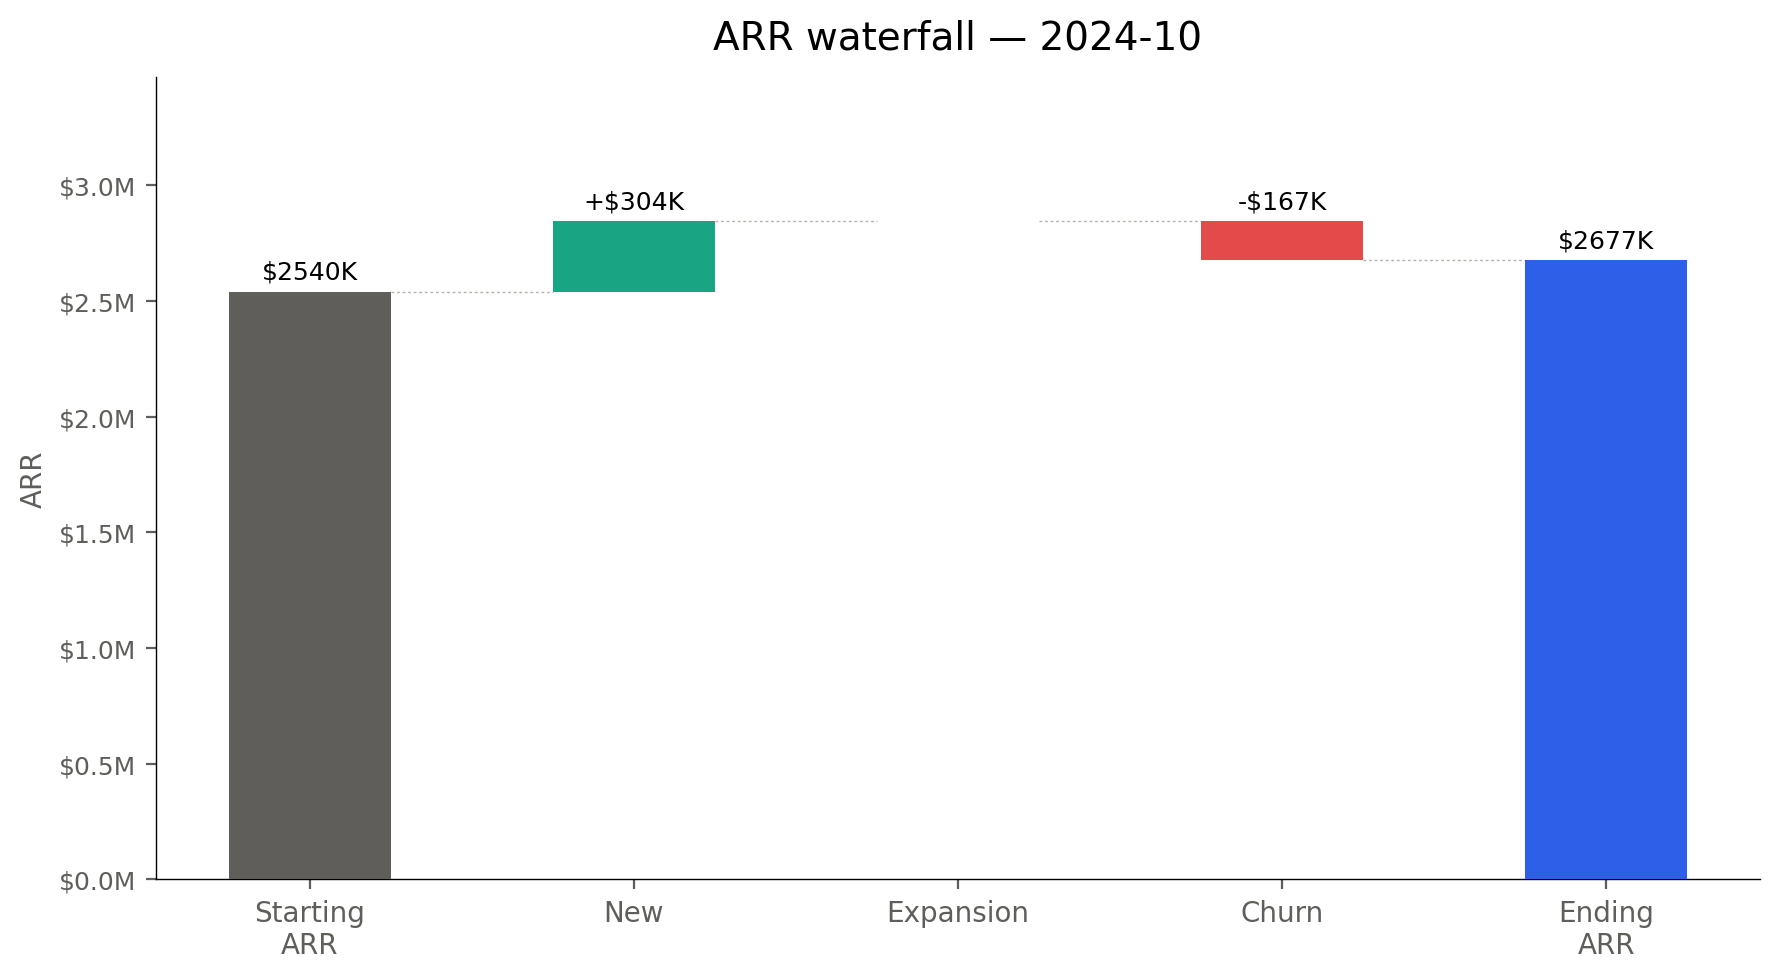
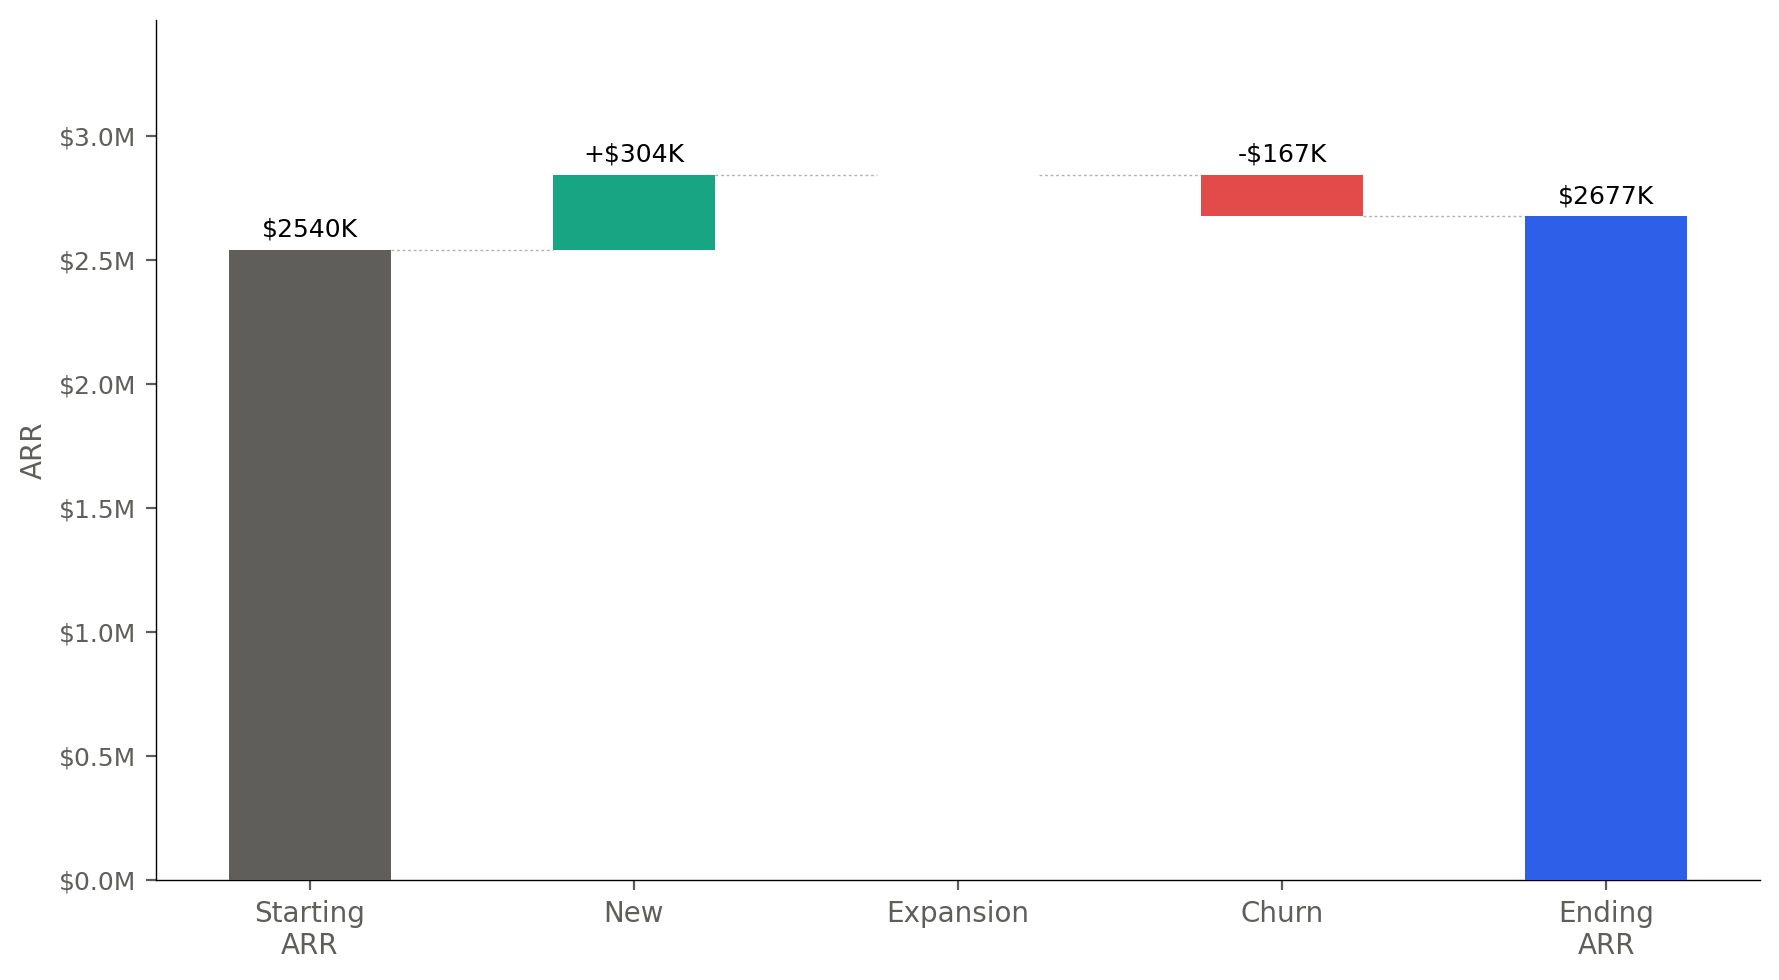
Section C cleanup: chart titles, wrapping, sentence case

diff --git a/src/report.py b/src/report.py
@@ -190,16 +190,16 @@ def _chart(path: str, max_w: float = None, max_h: float = None) -> Image:
     return img
 
 
-def _kpi_row(items: list) -> Table:
+def _kpi_row(items: list, col_widths: list = None) -> Table:
     n   = len(items)
-    w   = CONTENT_W / n
+    cw  = col_widths if col_widths else [CONTENT_W / n] * n
     tbl = Table(
         [
             [Paragraph(lbl, S_KPI_LABEL) for lbl, _, _ in items],
             [Paragraph(val, S_KPI_VALUE) for _, val, _ in items],
             [Paragraph(dlt, S_KPI_DELTA) for _, _, dlt in items],
         ],
-        colWidths=[w] * n,
+        colWidths=cw,
     )
     tbl.setStyle(TableStyle([
         ("BACKGROUND",    (0, 0), (-1, -1), C_BG),
@@ -280,12 +280,11 @@ def _section_summary(story: list, kpis: dict, arr_chart_path: str) -> None:
         Paragraph("Founder commentary", S_SUBHEAD),
         Paragraph(
             "Lorem ipsum dolor sit amet, consectetur adipiscing elit, sed do eiusmod "
-            "tempor incididunt ut labore et dolore magna aliqua. Ut enim ad minim veniam,<br/>"
-            "quis nostrud exercitation ullamco laboris nisi ut aliquip ex ea commodo consequat.<br/>"
-            "Duis aute irure dolor in reprehenderit in voluptate velit esse cillum dolore eu<br/>"
-            "fugiat nulla pariatur. Excepteur sint occaecat cupidatat non proident, sunt in<br/>"
-            "culpa qui officia deserunt mollit anim id est laborum. Sed ut perspiciatis unde<br/>"
-            "omnis iste natus error sit voluptatem accusantium doloremque laudantium totam.",
+            "tempor incididunt ut labore et dolore magna aliqua. Ut enim ad minim veniam, "
+            "quis nostrud exercitation ullamco laboris nisi ut aliquip ex ea commodo. "
+            "Duis aute irure dolor in reprehenderit in voluptate velit esse cillum dolore "
+            "eu fugiat nulla pariatur. Excepteur sint occaecat cupidatat non proident, "
+            "sunt in culpa qui officia deserunt mollit anim id est laborum.",
             S_LOREM,
         ),
     ]
@@ -382,22 +381,25 @@ def _section_icp(story: list, icp: dict) -> None:
         f"Your highest-MRR customers skew toward {icp['top_industry']} companies "
         f"in {icp['top_country']}, acquired mostly via {dominant} ({pct:.0f}%)."
     )
+    # Column widths: MRR values are short; industry/country can be long.
+    # 87 + 87 + 155 + 175 = 504 = CONTENT_W
+    icp_cw = [87, 87, 155, 175]
     story += [
         Paragraph(caption, S_CAPTION),
         _gap(12),
         _kpi_row([
             ("Avg MRR",      f"${icp['avg_mrr']:,.0f}",   ""),
             ("Median MRR",   f"${icp['median_mrr']:,.0f}", ""),
-            ("Top Industry", icp["top_industry"] or "-",   ""),
-            ("Top Country",  icp["top_country"]  or "-",   ""),
-        ]),
+            ("Top industry", icp["top_industry"] or "-",   ""),
+            ("Top country",  icp["top_country"]  or "-",   ""),
+        ], col_widths=icp_cw),
         _gap(12),
         _kpi_row([
             ("Inbound",      f"{icp['inbound_pct']:.0f}%",  ""),
             ("Outbound",     f"{icp['outbound_pct']:.0f}%", ""),
             ("Sample size",  str(icp["sample_size"]),        ""),
             ("",             "",                             ""),
-        ]),
+        ], col_widths=icp_cw),
     ]
 
 
@@ -451,37 +453,37 @@ def build_report(csv_path: str, as_of_month: str,
     story.append(PageBreak())
 
     # Page 2 — Executive Summary
-    story += _section_header(1, "Executive Summary")
+    story += _section_header(1, "Executive summary")
     _section_summary(story, kpis, arr_png)
 
     # Page 3 — Cohort Retention
     story.append(PageBreak())
-    story += _section_header(2, "Cohort Retention")
+    story += _section_header(2, "Cohort retention")
     _section_cohort(story, coh_png)
 
     # Page 4 — ARR Waterfall
     story.append(PageBreak())
-    story += _section_header(3, "ARR Waterfall")
+    story += _section_header(3, "ARR waterfall")
     _section_waterfall(story, wf, wfall_png)
 
     # Page 5 — Geography Mix
     story.append(PageBreak())
-    story += _section_header(4, "Geography Mix")
+    story += _section_header(4, "Geography mix")
     story.append(_chart(geo_png, max_h=CONTENT_H * 0.78))
 
     # Page 6 — Industry Mix
     story.append(PageBreak())
-    story += _section_header(5, "Industry Mix")
+    story += _section_header(5, "Industry mix")
     story.append(_chart(ind_png, max_h=CONTENT_H * 0.78))
 
     # Page 7 — Logo Highlights
     story.append(PageBreak())
-    story += _section_header(6, "Logo Highlights")
+    story += _section_header(6, "Logo highlights")
     _section_logos(story, logos)
 
     # Page 8 — ICP Snapshot
     story.append(PageBreak())
-    story += _section_header(7, "ICP Snapshot")
+    story += _section_header(7, "ICP snapshot")
     _section_icp(story, icp)
 
     cover_fn = lambda c, d: _draw_cover(c, month_label, prepared_str)

diff --git a/src/charts.py b/src/charts.py
@@ -152,7 +152,7 @@ def plot_arr_waterfall(wf: dict, as_of_month: str,
             zorder=2,
         )
 
-    ax.set_title(f"ARR waterfall — {as_of_month}")
+    ax.set_title("")
     ax.set_ylabel("ARR")
     ax.set_xticks(range(len(segments)))
     ax.set_xticklabels([s[0] for s in segments], fontsize=10)
@@ -226,7 +226,7 @@ def _stacked_bar(df: pd.DataFrame, title: str, ylabel: str,
     """Shared stacked bar logic. Legend sits outside the plot area."""
     apply_style()
 
-    fig, ax = plt.subplots(figsize=(11, 5))
+    fig, ax = plt.subplots(figsize=(7, 6))
     x = np.arange(len(df))
     bottoms = np.zeros(len(df))
 